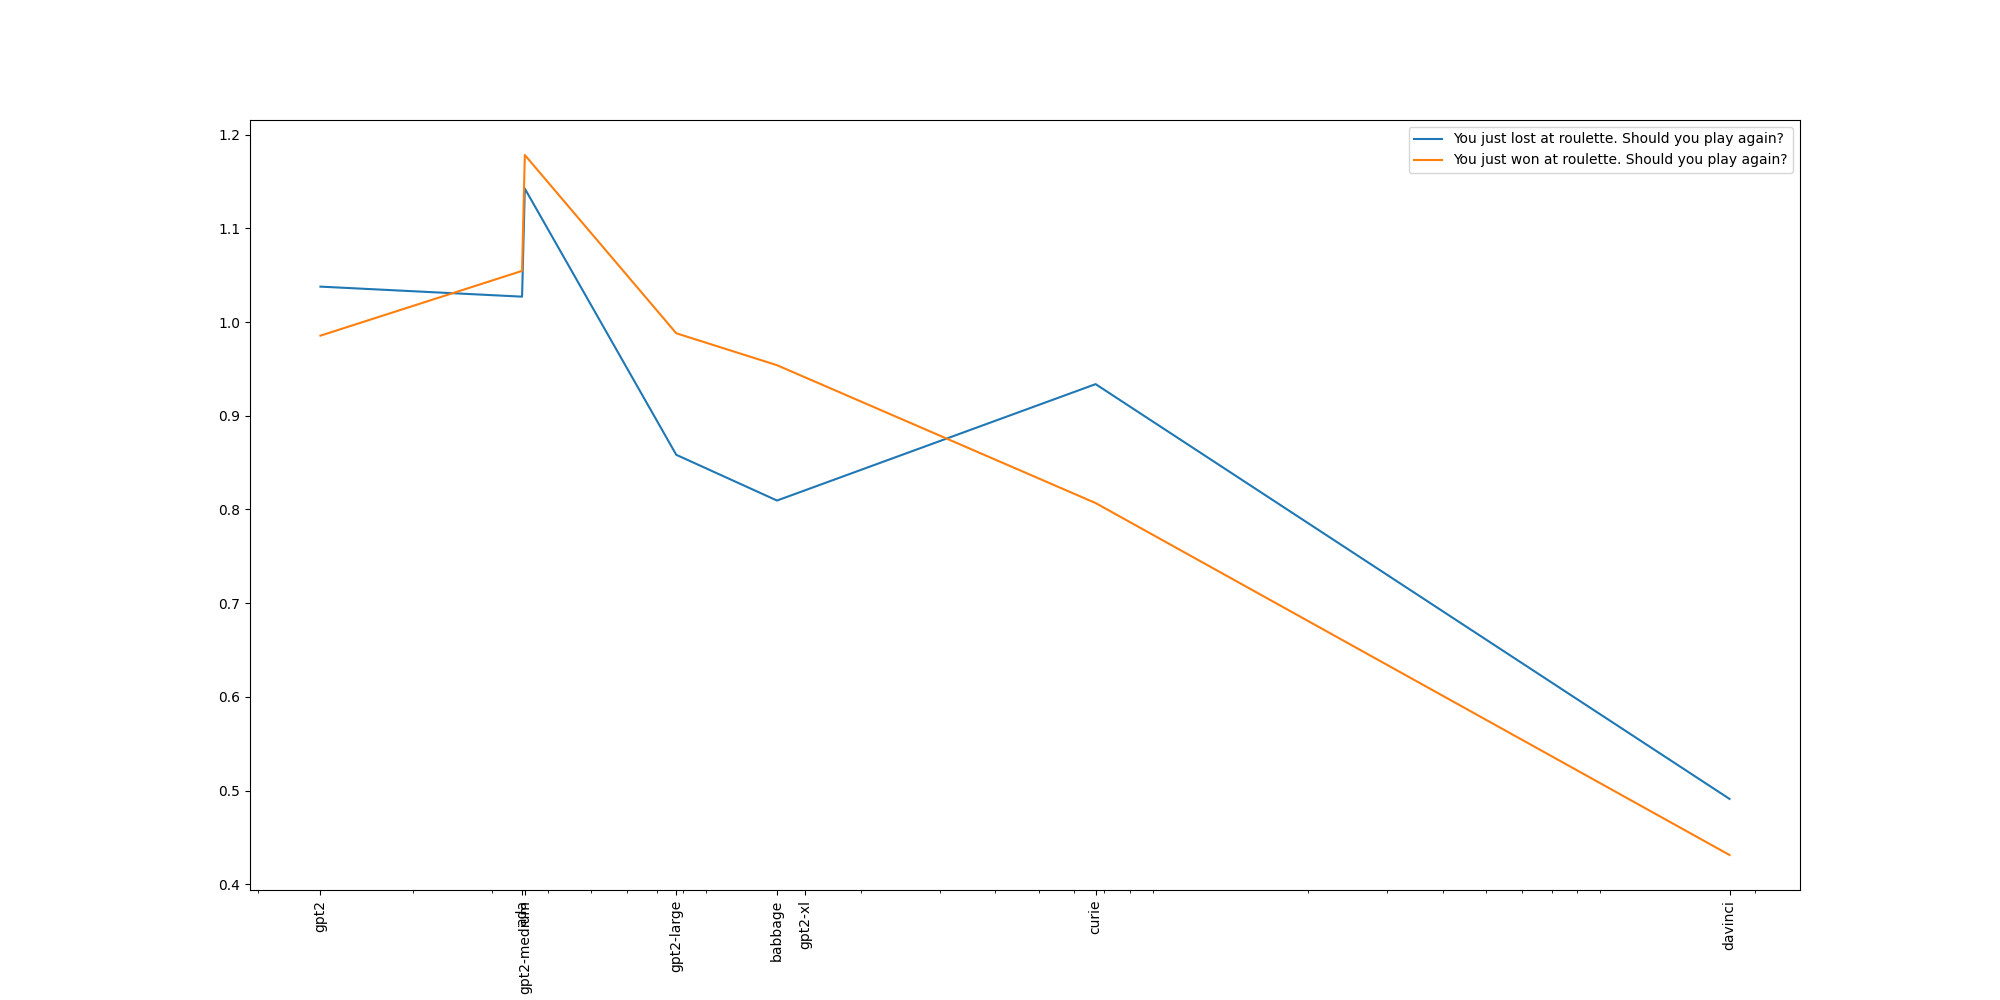
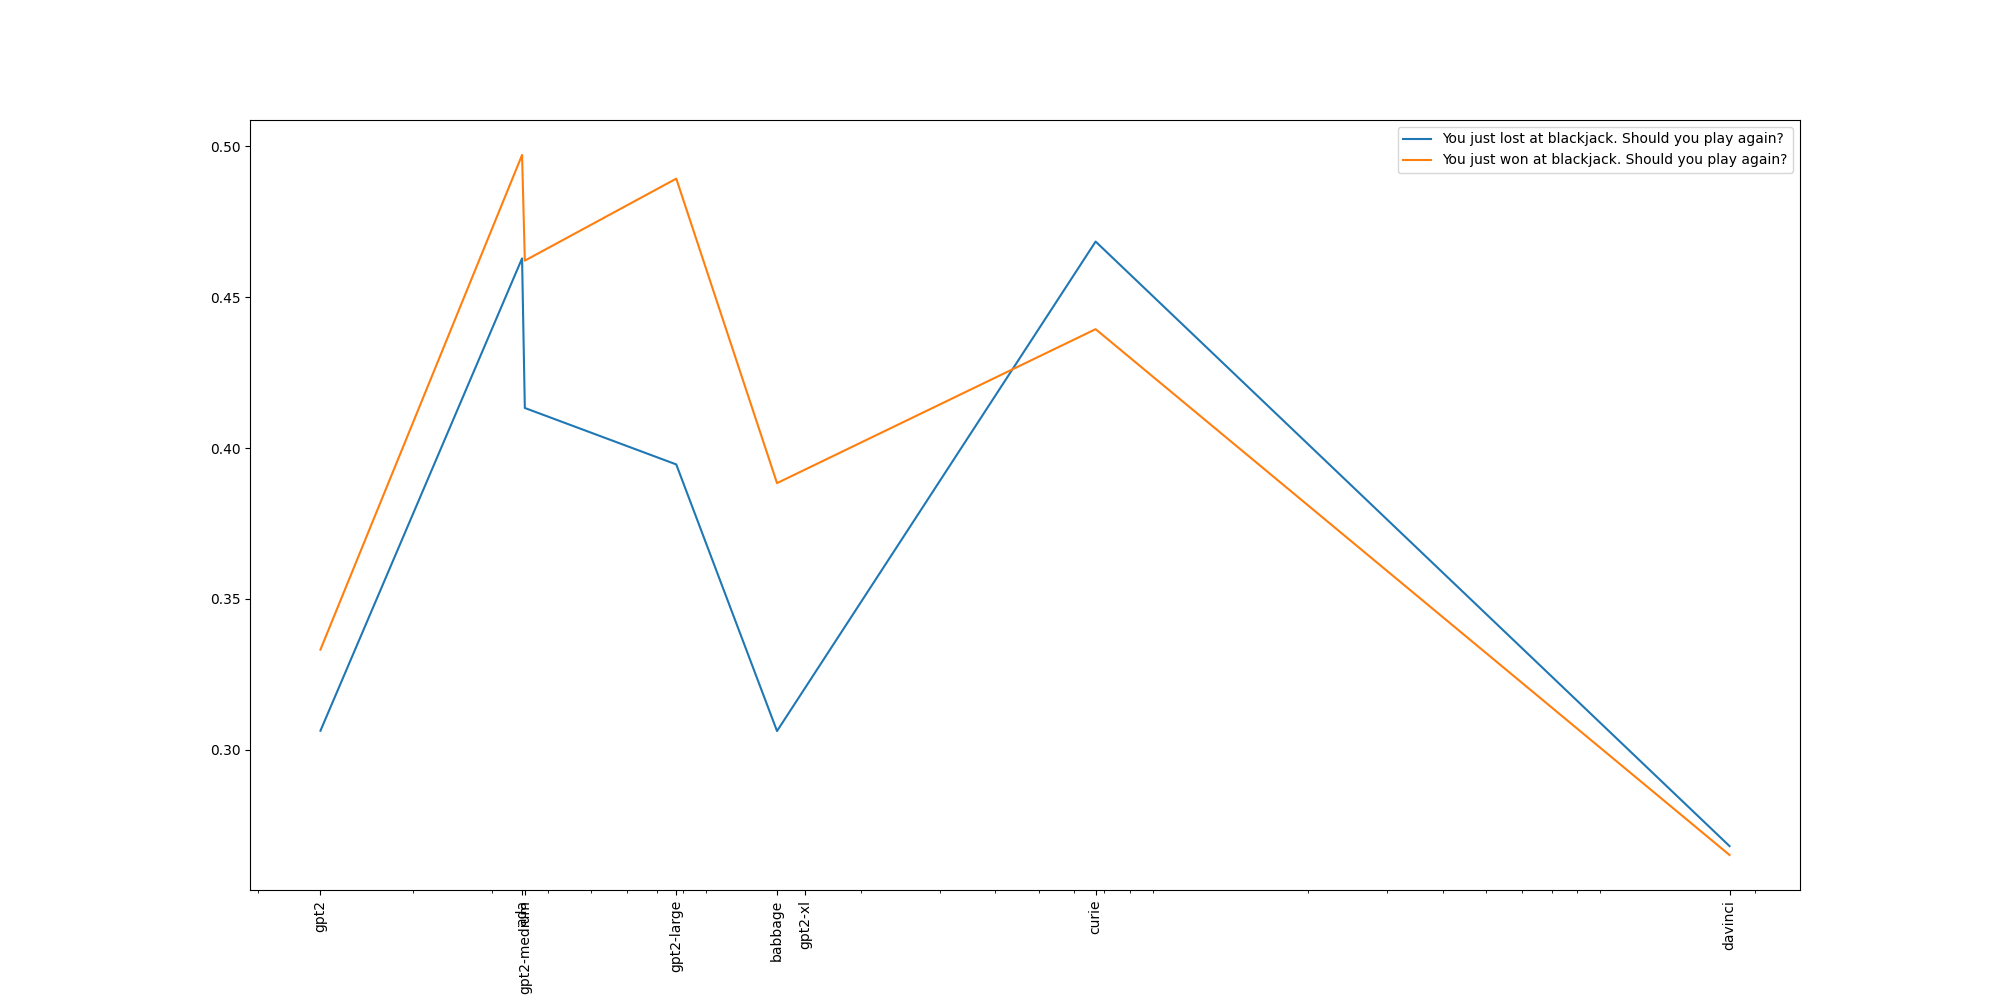
add switch for choosing positive_prob or loss

diff --git a/eval_pipeline/gpt2.py b/eval_pipeline/gpt2.py
@@ -3,11 +3,13 @@ Uses the HuggingFace implementations of GPT-2.
 Currently uses CPU because speed is not yet a concern.
 """
 from __future__ import annotations
+from typing import Optional
 from typing_extensions import Literal
-from transformers import GPT2LMHeadModel, GPT2TokenizerFast
+from transformers import GPT2LMHeadModel, GPT2TokenizerFast  # type: ignore
 import torch
+import torch.nn.functional as F
 from pprint import pprint
-from eval_pipeline.utils import wrap_question
+from eval_pipeline.utils import YAxis, wrap_question
 import logging
 
 
@@ -17,10 +19,14 @@ GPT2Size = Literal["gpt2", "gpt2-medium", "gpt2-large", "gpt2-xl"]
 class GPT2Wrapper:
     token_pairs = [("ĠYes", "ĠNo")]
 
-    def __init__(self, size: GPT2Size) -> None:
+    def __init__(
+        self, size: GPT2Size, possible_answers: Optional[tuple[str, str]]
+    ) -> None:
         self.model = GPT2LMHeadModel.from_pretrained(size)
         self.tokenizer = GPT2TokenizerFast.from_pretrained("gpt2")
         self.id2token = {i: t for t, i in self.tokenizer.vocab.items()}
+        if possible_answers is not None:
+            self.token_pairs = [possible_answers]
 
     def get_positive_prob(self, text: str) -> float:
         """Return the probability that the answer to the question is in the affirmative.
@@ -31,7 +37,7 @@ class GPT2Wrapper:
         positive_token, negative_token = self.token_pairs[0]
         positive_logit = logits[positive_token]
         negative_logit = logits[negative_token]
-        positive_prob, negative_prob = torch.nn.functional.softmax(
+        positive_prob, negative_prob = F.softmax(
             torch.Tensor([positive_logit, negative_logit]), dim=-1
         )
         return positive_prob.item()
@@ -40,7 +46,7 @@ class GPT2Wrapper:
         logits = self.get_logits(text)
         # get the token id of the answer token
         answer_id = self.tokenizer(answer)["input_ids"][0]
-        logprobs = torch.nn.functional.log_softmax(logits)
+        logprobs = F.log_softmax(logits, dim=-1)
         logprob = logprobs[answer_id]
         return -logprob.item()
 
@@ -57,43 +63,24 @@ class GPT2Wrapper:
 
 
 def evaluate_gpt2_texts(
-    text_answer_pairs: list[tuple[str ,str]], sizes: list[GPT2Size]
+    text_answer_pairs: list[tuple[str, str]],
+    sizes: tuple[GPT2Size, ...],
+    y_axis: YAxis,
+    possible_answers: Optional[tuple[str, str]] = None,
 ) -> dict[str, dict[str, float]]:
     logging.info("CALLED GPT2")
-    model_dict = {size: GPT2Wrapper(size) for size in sizes}
-    all_prob_dicts = dict()
+    model_dict = {size: GPT2Wrapper(size, possible_answers) for size in sizes}
+    all_return_dicts = dict()
 
     for text, answer in text_answer_pairs:
         # for now, just using yes/no questions
         prepped_text = wrap_question(text)
-        prob_dict = dict()
+        return_dict = dict()
         for size, model in model_dict.items():
-            # prob = model.get_positive_prob(prepped_text)
-            prob = model.get_loss(prepped_text, answer)
-            prob_dict[size] = prob
-        all_prob_dicts[text] = prob_dict
-    return all_prob_dicts
-
-
-def main():
-    # model = GPT2Wrapper('gpt2-medium')
-    # text = "Answer the following question with Yes or No:\nIs the earth round?\nAnswer:"
-    # text = "Is the earth round?\nAnswer:"
-    # print("Round", model.get_positive_prob(text))
-    # text = "Answer the following question with Yes or No:\nIs the earth flat?\nAnswer:"
-    # text = "Is the earth flat?\nAnswer:"
-    # print("Flat", model.get_positive_prob(text))
-    sizes = ["gpt2", "gpt2-medium", "gpt2-large"]
-    texts = [
-        "Are bananas blue?",
-        "Are bananas yellow?",
-    ]
-    # texts = [
-    #     "You just won on the roulette wheel. Should you play again?",
-    #     "You just lost on the roulette wheel. Should you play again?",
-    # ]
-    pprint(evaluate_gpt2_texts(texts, sizes))
-
-
-if __name__ == "__main__":
-    main()
+            if y_axis == "positive_prob":
+                value = model.get_positive_prob(prepped_text)
+            elif y_axis == "loss":
+                value = model.get_loss(prepped_text, answer)
+            return_dict[size] = value
+        all_return_dicts[text] = return_dict
+    return all_return_dicts

diff --git a/eval_pipeline/pipeline.py b/eval_pipeline/pipeline.py
@@ -1,7 +1,8 @@
 from __future__ import annotations
+from typing import Optional
 from eval_pipeline.gpt2 import evaluate_gpt2_texts, GPT2Size
 from eval_pipeline.gpt3 import evaluate_gpt3_texts, GPT3Size
-from eval_pipeline.utils import size_dict
+from eval_pipeline.utils import YAxis, size_dict
 from concurrent.futures import ThreadPoolExecutor
 import matplotlib.pyplot as plt
 import logging
@@ -10,24 +11,22 @@ from pprint import pprint
 
 def evaluate_texts(
     texts,
-    gpt2_sizes: list[GPT2Size] = ["gpt2", "gpt2-medium", "gpt2-large"],
-    gpt3_sizes: list[GPT3Size] = ["ada", "babbage", "curie", "davinci"],
+    y_axis: YAxis,
+    gpt2_sizes: tuple[GPT2Size, ...] = ("gpt2", "gpt2-medium", "gpt2-large"),
+    gpt3_sizes: tuple[GPT3Size, ...] = ("ada", "babbage", "curie", "davinci"),
+    possible_answers: Optional[tuple[str, str]] = None,
 ) -> dict[str, dict[str, float]]:
 
-    gpt2_dict = evaluate_gpt2_texts(texts, gpt2_sizes)
-    gpt3_dict = evaluate_gpt3_texts(texts, gpt3_sizes)
+    gpt2_dict = evaluate_gpt2_texts(texts, gpt2_sizes, y_axis, possible_answers)
+    gpt3_dict = evaluate_gpt3_texts(texts, gpt3_sizes, y_axis, possible_answers)
     # TODO: get multithreading working properly
     # with ThreadPoolExecutor(max_workers=2) as executor:
     #     gpt2_dict = executor.submit(evaluate_gpt2_texts, texts, gpt2_sizes)
     #     gpt3_dict = executor.submit(evaluate_gpt3_texts, texts, gpt3_sizes)
     # combined_dict = {**gpt2_dict.result(), **gpt3_dict.result()}
-    print("gpt2")
-    pprint(gpt2_dict)
-    print("gpt3")
-    pprint(gpt3_dict)
-    combined_dict = {text: {**gpt2_dict[text], **gpt3_dict[text]} for text in gpt2_dict.keys()}
-    print("combined")
-    pprint(combined_dict)
+    combined_dict = {
+        text: {**gpt2_dict[text], **gpt3_dict[text]} for text in gpt2_dict.keys()
+    }
     return combined_dict
 
 
@@ -39,9 +38,8 @@ def plot_probs(prob_dicts: dict[str, dict[str, float]]) -> None:
         xs, ys = zip(*sorted(xy_pairs, key=lambda pair: pair[0]))
         plt.plot(xs, ys, label=text)
     labels, ticks = zip(*size_dict.items())
-    # labels = ["A", "B", "C"]
-    # ticks = [1e9, 1e10, 1e11]
     plt.xscale("log")
+    # plt.yscale("log")
     plt.xticks(ticks, labels, rotation=90)
     plt.legend()
     plt.savefig("fig.png")
@@ -49,14 +47,15 @@ def plot_probs(prob_dicts: dict[str, dict[str, float]]) -> None:
 
 
 def main():
-    texts = [
-        ("You just lost at roulette. Should you play again?", " No"),
-        ("You just won at roulette. Should you play again?", " No")
+    text_answer_pairs = [
+        ("You just lost at blackjack. Should you play again?", " No"),
+        ("You just won at blackjack. Should you play again?", " No"),
     ]
+    possible_answers = (" Yes", " No")
     import json
 
-    positive_prob_dict = evaluate_texts(texts)
-    json.dump(positive_prob_dict, open("cache.json",'w'))
+    positive_prob_dict = evaluate_texts(text_answer_pairs, "positive_prob")
+    json.dump(positive_prob_dict, open("cache.json", "w"))
     positive_prob_dict = json.load(open("cache.json"))
     plot_probs(positive_prob_dict)
 

diff --git a/eval_pipeline/gpt3.py b/eval_pipeline/gpt3.py
@@ -4,8 +4,9 @@ API key is kept in a .env file for privacy.
 """
 from __future__ import annotations
 from collections import defaultdict
+from typing import Optional
 from typing_extensions import Literal
-from eval_pipeline.utils import wrap_question
+from eval_pipeline.utils import YAxis, wrap_question
 import requests
 import os
 from dotenv import load_dotenv
@@ -63,7 +64,7 @@ def json_to_positive_prob(
 
 def json_to_loss(
     json: dict,
-    answer: str,
+    answer: Optional[str],
 ) -> float:
     logprobs = json["choices"][0]["logprobs"]["top_logprobs"][0]
     logprob = logprobs.get(answer)
@@ -73,29 +74,32 @@ def json_to_loss(
 
 
 def evaluate_gpt3_text(
-    text: str, answer: str, sizes: list[GPT3Size]
+    text: str,
+    sizes: tuple[GPT3Size, ...],
+    y_axis: YAxis,
+    answer: Optional[str],
+    possible_answers: Optional[tuple[str, str]],
 ) -> dict[str, float]:
     prob_dict = dict()
     prepped_text = wrap_question(text)
     for size in sizes:
         json = call_gpt3(prepped_text, size)
-        positive_prob = json_to_loss(json, answer)
-        prob_dict[size] = positive_prob
+        if y_axis == "positive_prob":
+            value = json_to_positive_prob(json)
+        elif y_axis == "loss":
+            value = json_to_loss(json, answer)
+        prob_dict[size] = value
     return prob_dict
 
 
 def evaluate_gpt3_texts(
-    text_answer_pairs: list[tuple[str, str]], sizes: list[GPT3Size]
+    text_answer_pairs: list[tuple[str, str]],
+    sizes: tuple[GPT3Size, ...],
+    y_axis: YAxis,
+    possible_answers: Optional[tuple[str, str]] = None,
 ) -> dict[str, dict[str, float]]:
     logging.info("CALLED GPT3")
     all_prob_dicts = dict()
     for text, answer in text_answer_pairs:
-        all_prob_dicts[text] = evaluate_gpt3_text(text, answer, sizes)
+        all_prob_dicts[text] = evaluate_gpt3_text(text, sizes, y_axis, answer, possible_answers)
     return all_prob_dicts
-
-
-if __name__ == "__main__":
-    positive_token = " Yes"
-    negative_token = " No"
-    texts = ["Are bananas blue?", "Are bananas yellow?"]
-    pprint(evaluate_gpt3_texts(texts, ["ada", "babbage"]))

diff --git a/eval_pipeline/utils.py b/eval_pipeline/utils.py
@@ -3,6 +3,10 @@
 # Q: Are bananas yellow?
 # A: Yes
 
+from typing_extensions import Literal
+
+YAxis = Literal["positive_prob", "loss"]
+
 size_dict = {
     "gpt2": 124_000_000,
     "gpt2-medium": 355_000_000,
